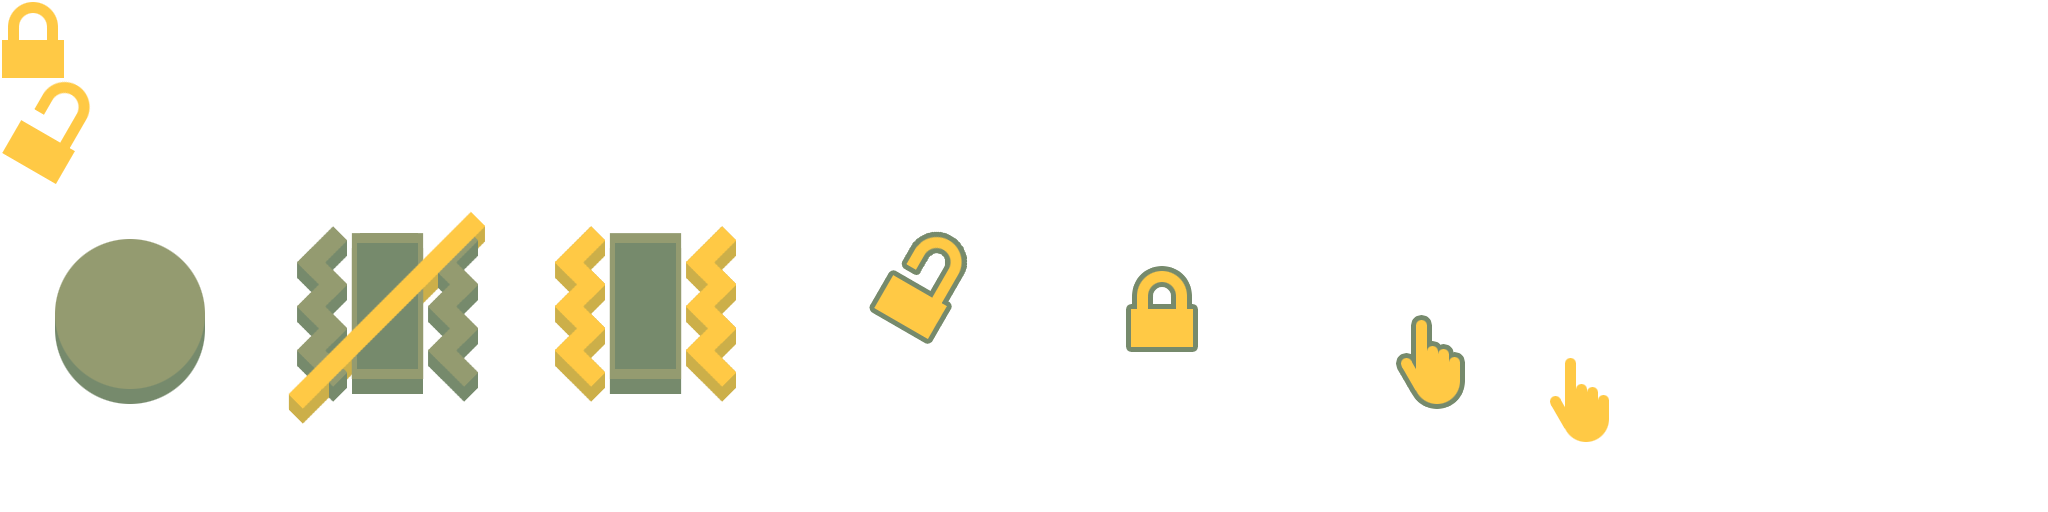
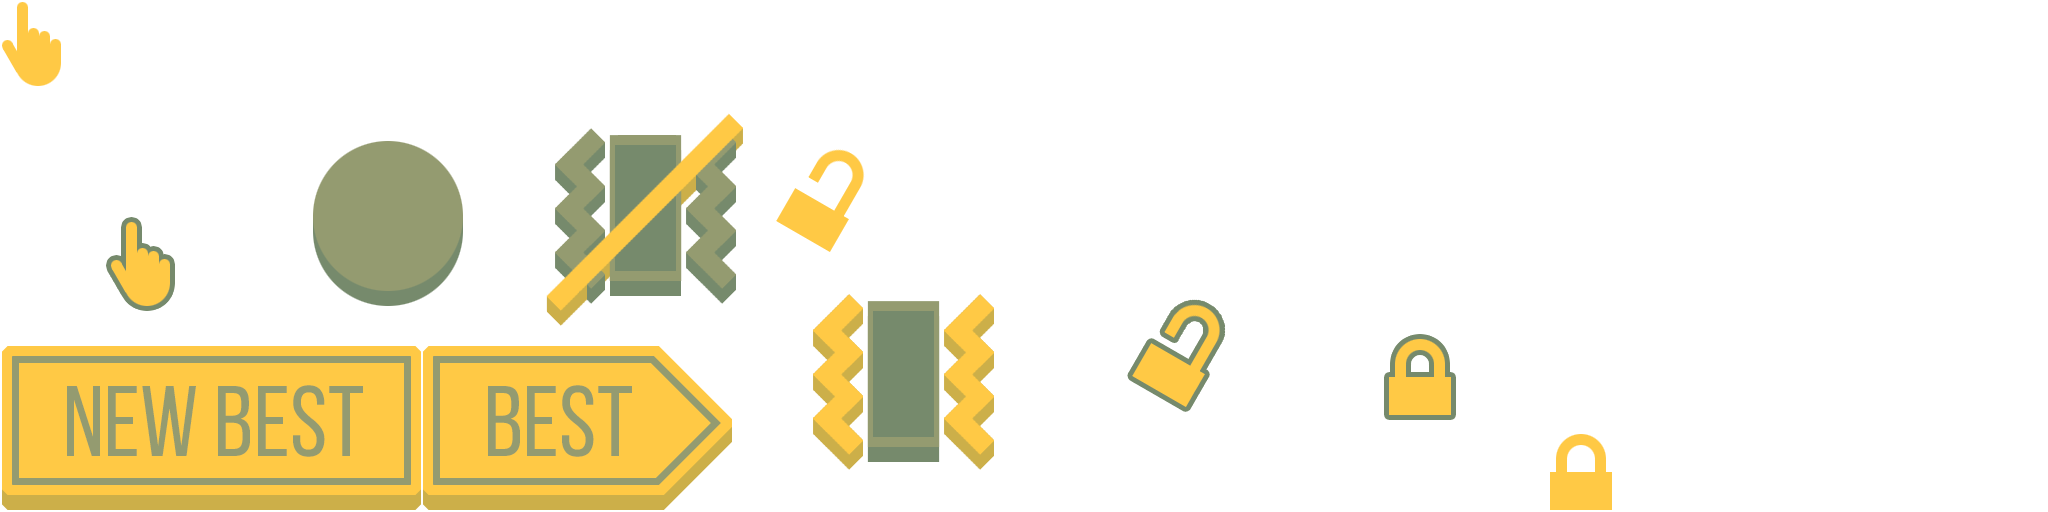
nicer looking best and new best messages

diff --git a/core/src/com/vanjav/roadline/Roadline.java b/core/src/com/vanjav/roadline/Roadline.java
@@ -98,14 +98,16 @@ public class Roadline extends ApplicationAdapter {
 	private float biggestTreeWidth;
 	private Sprite handSprite, vibrate1Sprite, vibrate0Sprite;
 	private Sprite colorBaseSprite, colorHandSprite, lockSprite, unlockedSprite, colorLockSprite, colorUnlockedSprite;
+	private Sprite bestSprite, newBestSprite;
 
 	private SpriteBatch batch;
 	private ShapeRenderer shapeRenderer;
 
 	private BitmapFont font500, font250, font125, font125flat, font75flat;
 	private float textScale, textHeight;
-	private float titlePositionY, instructionsPositionY, scorePositionY, bestPositionY, restartPositionY;
-	private float instructionsWidth;
+	private float titlePositionY, instructionsPositionY, scorePositionY;
+    private float bestPositionY, bestSpritePositionY, bestSpritePositionX, bestPositionX, restartPositionY;
+	private float instructionsWidth, bestSpriteWidth;
 
 	private float vibrateX1, vibrateY1, vibrateX2, vibrateY2;
 	private float colorCenterX, colorCenterY, colorRadius, colorX1, colorY1, colorX2, colorY2;
@@ -294,6 +296,17 @@ public class Roadline extends ApplicationAdapter {
 		colorUnlockedSprite.setOrigin(0, 0);
 		colorUnlockedSprite.setPosition(width - colorUnlockedSprite.getWidth()*colorUnlockedSprite.getScaleX(), 0);
 
+		bestSprite = otherAtlas.createSprite("best");
+		bestSprite.setScale(textScale);
+		bestSprite.setOrigin(0, 0);
+        bestSpriteWidth = bestSprite.getWidth()*bestSprite.getScaleX();
+        bestSpritePositionY = height - textHeight*2f - font250.getCapHeight() - 15*textScale;
+
+		newBestSprite = otherAtlas.createSprite("newbest");
+		newBestSprite.setScale(textScale);
+		newBestSprite.setOrigin(0, 0);
+		newBestSprite.setPosition(width/2f - newBestSprite.getWidth()*newBestSprite.getScaleX()/2f, bestSpritePositionY);
+
 		shapeRenderer = new ShapeRenderer();
 
 		Gdx.input.setInputProcessor(new InputAdapter(){
@@ -447,6 +460,10 @@ public class Roadline extends ApplicationAdapter {
 		if (linePaint.animated) {
 			lineColors = linePaint.colors;
 		}
+
+		bestSpritePositionX = (width - bestSpriteWidth*1.1f - new GlyphLayout(font250, ""+highScore).width)/2f;
+		bestSprite.setPosition(bestSpritePositionX, bestSpritePositionY);
+        bestPositionX = bestSpritePositionX + bestSpriteWidth*1.1f;
 
 		Gdx.gl.glBlendFunc(GL20.GL_SRC_ALPHA, GL20.GL_ONE_MINUS_SRC_ALPHA);
 
@@ -684,10 +701,12 @@ public class Roadline extends ApplicationAdapter {
 
 		if (gameOver) {
 			if (newHighScore) {
-				font250.draw(batch, "NEW BEST", 0, bestPositionY, width, Align.center, false);
+				//font250.draw(batch, "NEW BEST", 0, bestPositionY, width, Align.center, false);
+                newBestSprite.draw(batch);
 			}
 			else {
-				font250.draw(batch, "BEST "+highScore, 0, bestPositionY, width, Align.center, false);
+			    bestSprite.draw(batch);
+				font250.draw(batch, ""+highScore, bestPositionX, bestPositionY);
 			}
 
 			font125.draw(batch, "TAP TO RESTART", 0, restartPositionY, width, Align.center, false);
